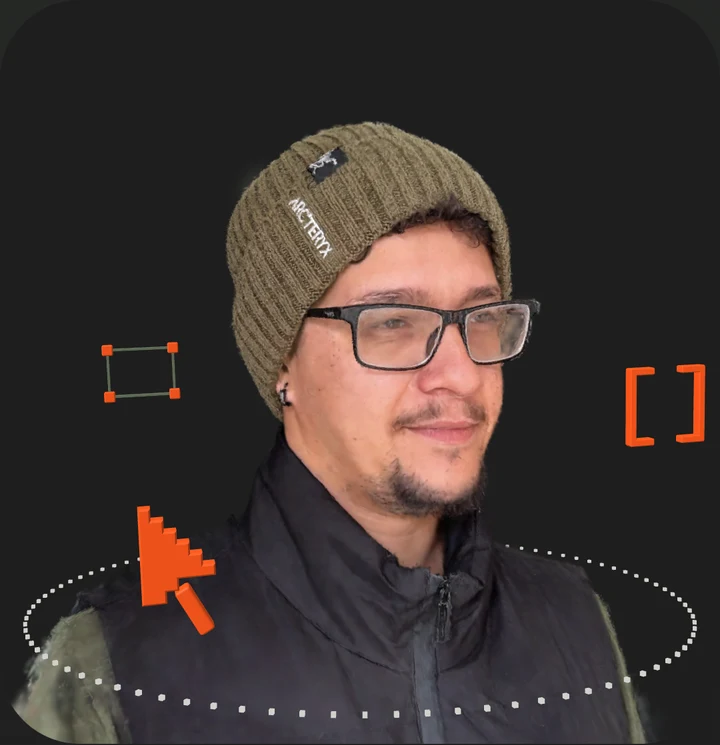
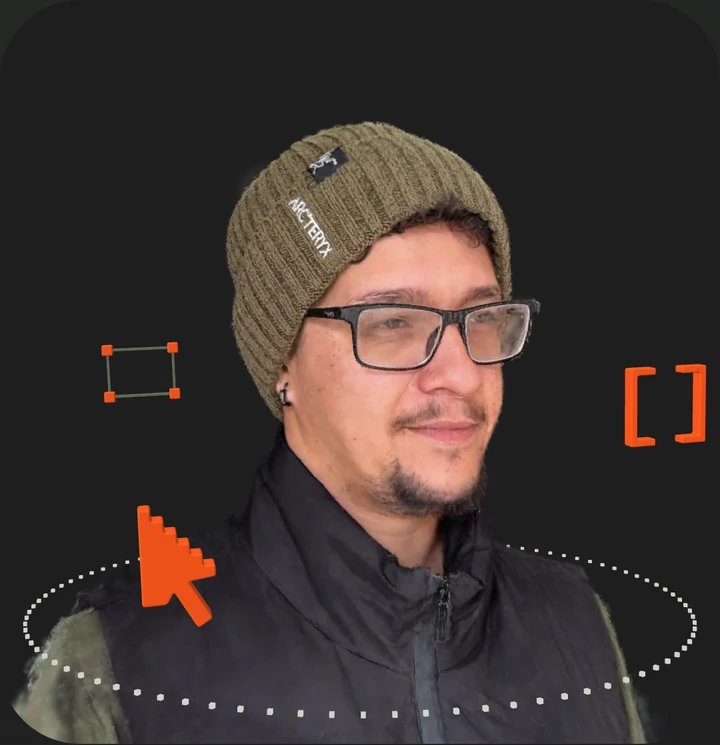
Sculpt orbit glyphs and balance mobile scene scale

diff --git a/src/scripts/about-environment.js b/src/scripts/about-environment.js
@@ -1,6 +1,8 @@
 // Local 3D accents shared by About and the home portrait reveal.
 // revealOnPose: on the home page the accents appear only once the portrait has fully
 // landed in the About section (pose 1) and shrink away when scrolling back up.
+export const ABOUT_MOBILE_SCALE = 1.2;
+
 export function setupAboutEnvironment(app, viewport, radius, { revealOnPose = false } = {}) {
   const pc = window.pc;
   const root = new pc.Entity("about-digital-environment");
@@ -54,9 +56,22 @@ export function setupAboutEnvironment(app, viewport, radius, { revealOnPose = fa
     meshes.push(mesh);
     return mesh;
   };
-  // One watertight extrusion for the stepped pointer; individual rounded rows
-  // would leave horizontal seams across its face. Coordinates run counterclockwise.
-  const extrudedPointer = (outline, depth, bevel) => {
+  // Continuous extrusions remove overlapping-stroke seams from the cursor,
+  // brackets and chevrons. Contours run counterclockwise.
+  const beveledIcon = (corners, depth, bevel) => {
+    // Keep the pixel silhouette, but ease each contour corner with a short
+    // quadratic arc. The corner radius stays below a quarter of a pixel step.
+    const outline = corners.flatMap((p, i) => {
+      const prev = corners[(i + corners.length - 1) % corners.length], next = corners[(i + 1) % corners.length];
+      const a = [prev[0] - p[0], prev[1] - p[1]], b = [next[0] - p[0], next[1] - p[1]];
+      const trim = Math.min(bevel * 1.8, Math.hypot(...a) * 0.24, Math.hypot(...b) * 0.24);
+      const start = p.map((n, j) => n + a[j] / Math.hypot(...a) * trim);
+      const end = p.map((n, j) => n + b[j] / Math.hypot(...b) * trim);
+      return Array.from({ length: 5 }, (_, step) => {
+        const t = step / 4;
+        return p.map((n, j) => (1 - t) ** 2 * start[j] + 2 * (1 - t) * t * n + t ** 2 * end[j]);
+      });
+    });
     const cross = (a, b, c) => (b[0] - a[0]) * (c[1] - a[1]) - (b[1] - a[1]) * (c[0] - a[0]);
     const inset = outline.map((p, i) => {
       const a = outline[(i + outline.length - 1) % outline.length], b = outline[(i + 1) % outline.length];
@@ -85,9 +100,17 @@ export function setupAboutEnvironment(app, viewport, radius, { revealOnPose = fa
         triangle([...c, -depth / 2], [...b, -depth / 2], [...a, -depth / 2]);
         remaining.splice(i, 1); clipped = true; break;
       }
-      if (!clipped) throw new Error("Invalid orbit pointer outline");
+      if (!clipped) throw new Error("Invalid orbit glyph outline");
     }
-    const profiles = [[inset, -depth / 2], [outline, -depth / 2 + bevel], [outline, depth / 2 - bevel], [inset, depth / 2]];
+    // Three bevel bands spread a soft highlight across the face/edge transition.
+    const profiles = [];
+    for (const sign of [-1, 1]) {
+      const angles = sign < 0 ? [0, Math.PI / 6, Math.PI / 3, Math.PI / 2] : [Math.PI / 2, Math.PI / 3, Math.PI / 6, 0];
+      for (const angle of angles) {
+        const contour = inset.map((p, i) => p.map((n, j) => n + (outline[i][j] - n) * Math.sin(angle)));
+        profiles.push([contour, sign * (depth / 2 - bevel + Math.cos(angle) * bevel)]);
+      }
+    }
     for (let band = 0; band < profiles.length - 1; band++) {
       for (let i = 0; i < outline.length; i++) {
         const j = (i + 1) % outline.length;
@@ -156,23 +179,25 @@ export function setupAboutEnvironment(app, viewport, radius, { revealOnPose = fa
     part.setLocalEulerAngles(0, 0, angle);
     group.addChild(part);
   };
+  const solidGlyph = (group, name, outline, depth, bevel, mat) => {
+    const part = new pc.Entity(name);
+    part.addComponent("render", { meshInstances: [new pc.MeshInstance(beveledIcon(outline, depth, bevel), mat, part)],
+      layers: [iconLayer.id], castShadows: false, receiveShadows: false });
+    group.addChild(part);
+  };
   const brackets = glyph("code-brackets", 0);
-  for (const side of [-1, 1]) {
-    stroke(brackets, [0.012, 0.13, 0.018], [side * 0.065, 0, 0], glyphOrange);
-    for (const y of [-1, 1]) stroke(brackets, [0.045, 0.012, 0.018], [side * 0.048, y * 0.06, 0], glyphOrange);
-  }
+  const bracketOutline = [[-0.071, -0.066], [-0.025, -0.066], [-0.025, -0.054], [-0.059, -0.054],
+    [-0.059, 0.054], [-0.025, 0.054], [-0.025, 0.066], [-0.071, 0.066]];
+  solidGlyph(brackets, "left-bracket", bracketOutline, 0.022, 0.002, glyphOrange);
+  solidGlyph(brackets, "right-bracket", bracketOutline.map(([x, y]) => [-x, y]).reverse(), 0.022, 0.002, glyphOrange);
   const cursor = glyph("pixel-cursor", Math.PI / 2);
-  const pointer = new pc.Entity("beveled-pixel-pointer");
-  // Same stepped silhouette as the original eight rows, with a continuous face.
-  const outline = [[-0.045, -0.056], [-0.013, -0.056], [-0.013, -0.04],
-    [0.003, -0.04], [0.003, -0.024], [0.051, -0.024], [0.051, -0.008],
+  // One connected pointer and stem, with slightly deeper satin acrylic edges.
+  const outline = [[-0.045, -0.056], [-0.013, -0.056], [-0.004, -0.04],
+    [0.025, -0.092], [0.045, -0.08], [0.015, -0.028], [0.051, -0.024], [0.051, -0.008],
     [0.035, -0.008], [0.035, 0.008], [0.019, 0.008], [0.019, 0.024],
     [0.003, 0.024], [0.003, 0.04], [-0.013, 0.04], [-0.013, 0.056],
     [-0.029, 0.056], [-0.029, 0.072], [-0.045, 0.072]];
-  pointer.addComponent("render", { meshInstances: [new pc.MeshInstance(extrudedPointer(outline, 0.022, 0.0025), glyphOrange, pointer)],
-    layers: [iconLayer.id], castShadows: false, receiveShadows: false });
-  cursor.addChild(pointer);
-  stroke(cursor, [0.022, 0.07, 0.022], [0.022, -0.07, 0], glyphOrange, 28);
+  solidGlyph(cursor, "beveled-pixel-pointer", outline, 0.03, 0.0025, glyphOrange);
   const design = glyph("design-selection-frame", Math.PI);
   for (const side of [-1, 1]) {
     stroke(design, [0.15, 0.006, 0.012], [0, side * 0.055, 0], glyphGreen);
@@ -181,10 +206,9 @@ export function setupAboutEnvironment(app, viewport, radius, { revealOnPose = fa
   }
   const slash = glyph("code-slash", Math.PI * 1.5);
   stroke(slash, [0.012, 0.13, 0.016], [0, 0, 0], glyphGreen, -25);
-  for (const side of [-1, 1]) {
-    stroke(slash, [0.06, 0.01, 0.016], [side * 0.063, 0.022, 0], glyphOrange, side * -40);
-    stroke(slash, [0.06, 0.01, 0.016], [side * 0.063, -0.022, 0], glyphOrange, side * 40);
-  }
+  const chevron = [[-0.09, 0], [-0.043, -0.046], [-0.036, -0.039], [-0.076, 0], [-0.036, 0.039], [-0.043, 0.046]];
+  solidGlyph(slash, "left-chevron", chevron, 0.02, 0.0015, glyphOrange);
+  solidGlyph(slash, "right-chevron", chevron.map(([x, y]) => [-x, y]).reverse(), 0.02, 0.0015, glyphOrange);
   // Dotted ring at shoulder height, spinning with the portrait (12°/s, same as model-interaction).
   const ring = new pc.Entity("shoulder-ring");
   root.addChild(ring);
@@ -204,6 +228,7 @@ export function setupAboutEnvironment(app, viewport, radius, { revealOnPose = fa
   let time = 0;
   let visible = true;
   const motion = matchMedia("(prefers-reduced-motion: reduce)");
+  const compact = matchMedia("(max-width: 768px)");
   const observer = new IntersectionObserver(([entry]) => { visible = entry.isIntersecting; });
   observer.observe(viewport);
   const positionGlyphs = () => {
@@ -233,7 +258,10 @@ export function setupAboutEnvironment(app, viewport, radius, { revealOnPose = fa
     root.enabled = shown > 0.001;
     // Smoothstep fade with a slight settle in scale, so the orbit eases in rather than popping.
     const k = shown * shown * (3 - 2 * shown);
-    const scale = 0.9 + 0.1 * k;
+    // Follow the enlarged mobile About portrait without changing relative orbit
+    // dimensions, the individual 0.91 glyph scale, or the Home reveal scale.
+    const mobileScale = compact.matches && viewport.dataset.autoRotate === "true" ? ABOUT_MOBILE_SCALE : 1;
+    const scale = (0.9 + 0.1 * k) * mobileScale;
     root.setLocalScale(scale, scale, scale);
     materials.forEach(({ value, opacity }) => {
       value.opacity = opacity * k;
@@ -250,8 +278,9 @@ export function setupAboutEnvironment(app, viewport, radius, { revealOnPose = fa
   if (revealOnPose) {
     target = Number(viewport.dataset.scrollPose || 0) >= REVEAL_AT ? 1 : 0;
     viewport.addEventListener("portraitpose", onPose);
-    applyReveal();
   }
+  applyReveal();
+  compact.addEventListener("change", applyReveal);
   const update = (dt) => {
     if (!visible || document.hidden) return;
     if (shown !== target) {
@@ -271,6 +300,7 @@ export function setupAboutEnvironment(app, viewport, radius, { revealOnPose = fa
   app.on("update", update);
   return () => {
     observer.disconnect();
+    compact.removeEventListener("change", applyReveal);
     viewport.removeEventListener("portraitpose", onPose);
     app.off("update", update);
     root.destroy();

diff --git a/src/scripts/splat-hero.js b/src/scripts/splat-hero.js
@@ -1,7 +1,7 @@
 // Gaussian splat hero portrait — scrolls into the bio, drag with the mouse to rotate. Self-illuminated so no lights needed.
 // Loaded only on the page that has #splat-canvas, via a dynamic import (see hero markup) so PlayCanvas
 // never ships to pages without it.
-import { setupAboutEnvironment } from "./about-environment.js";
+import { ABOUT_MOBILE_SCALE, setupAboutEnvironment } from "./about-environment.js";
 import { setupModelInteractions } from "./model-interaction.js";
 
 export function initSplat() {
@@ -72,6 +72,7 @@ export function initSplat() {
   const origin = document.getElementById("portrait-origin") || viewport;
   let renderWidth = 0;
   let renderHeight = 0;
+  let updateFraming;
   function resize() {
     const width = Math.round(origin.clientWidth);
     const height = Math.round(origin.clientHeight);
@@ -79,6 +80,7 @@ export function initSplat() {
     renderWidth = width;
     renderHeight = height;
     app.setCanvasResolution(pc.RESOLUTION_FIXED, width, height);
+    updateFraming?.();
     app.renderNextFrame = true;
   }
   observer = new ResizeObserver(resize);
@@ -151,6 +153,10 @@ export function initSplat() {
       const portraitFov = camera.camera.fov;
       const applyZoom = (pose) => {
         const isMobile = matchMedia("(max-width: 768px)").matches;
+        // Mobile About review: enlarge the scene inside its square canvas.
+        // The environment shares this factor; desktop/Home keep their framing.
+        const modelScale = isMobile && viewport.dataset.autoRotate === "true" ? ABOUT_MOBILE_SCALE : 1;
+        rig.setLocalScale(modelScale, modelScale, modelScale);
         const sizeMultiplier = isMobile ? 1.15 : 1;
         const canvasHeadroom = isMobile ? origin.clientHeight / 325 : 1;
         camera.camera.fov = 2 * Math.atan(Math.tan(portraitFov * Math.PI / 360) * canvasHeadroom / sizeMultiplier) * 180 / Math.PI;
@@ -164,7 +170,8 @@ export function initSplat() {
         camera.lookAt(0, y, 0);
         app.renderNextFrame = true;
       };
-      applyZoom(Number(viewport.dataset.scrollPose || 0));
+      updateFraming = () => applyZoom(Number(viewport.dataset.scrollPose || 0));
+      updateFraming();
       viewport.addEventListener("portraitpose", (e) => applyZoom(e.detail), { signal: controller.signal });
       // The gsplat sort runs in a worker, so the first frames can be empty.
       // With on-demand rendering nothing redraws when the sort lands, which

diff --git a/docs/validation/satin-orbit/README.md b/docs/validation/satin-orbit/README.md
@@ -1,10 +1,10 @@
 # Satin orbit refinement · 2026-10-27
 
-Procedural rounded strokes and a continuous beveled cursor replace the flat box glyphs. The exact orange and muted green remain material base colors. An icon-only layer receives a warm upper-left key, soft cool fill and material-local ambient SH; the self-illuminated portrait and unlit dotted ring receive no new lighting. No model, reflection texture, shadow pass or dependency was added.
+Procedural rounded strokes and continuous rounded bevels on the brackets, chevrons and connected cursor/stem replace the flat box glyphs. The exact orange and muted green remain material base colors. An icon-only layer receives a warm upper-left key, soft cool fill and material-local ambient SH; the self-illuminated portrait and unlit dotted ring receive no new lighting. No model, reflection texture, shadow pass or dependency was added.
 
 Icons and ring write depth before splat compositing. Stable screen-space opacity coverage preserves per-pixel occlusion through the home fade, without treating a transparent glyph as one sortable surface. Fade duration, slight scale, counter-orbit, heights, drift, tilt and reduced-motion behavior are preserved. Fine-pointer desktops with at least eight reported hardware threads and no Save-Data can use DPR 2; touch/mobile and other clients retain the 1.5 cap. This is a conservative device heuristic, not a hardware benchmark.
 
-Mobile About top padding is now 20px, matching its side gutters (user review follow-up); desktop stays 57px. The mobile portrait canvas is square, with its width still contained by the 20px side gutters.
+Mobile About top padding is now 20px, matching its side gutters (user review follow-up); desktop stays 57px. The mobile portrait canvas is square, with its width still contained by the 20px side gutters. Mobile About scales the portrait and orbit together by 1.2, following review, preserving their relative proportions; desktop/Home sizes are unchanged.
 
 Verified in local Chrome against the production build:
 
